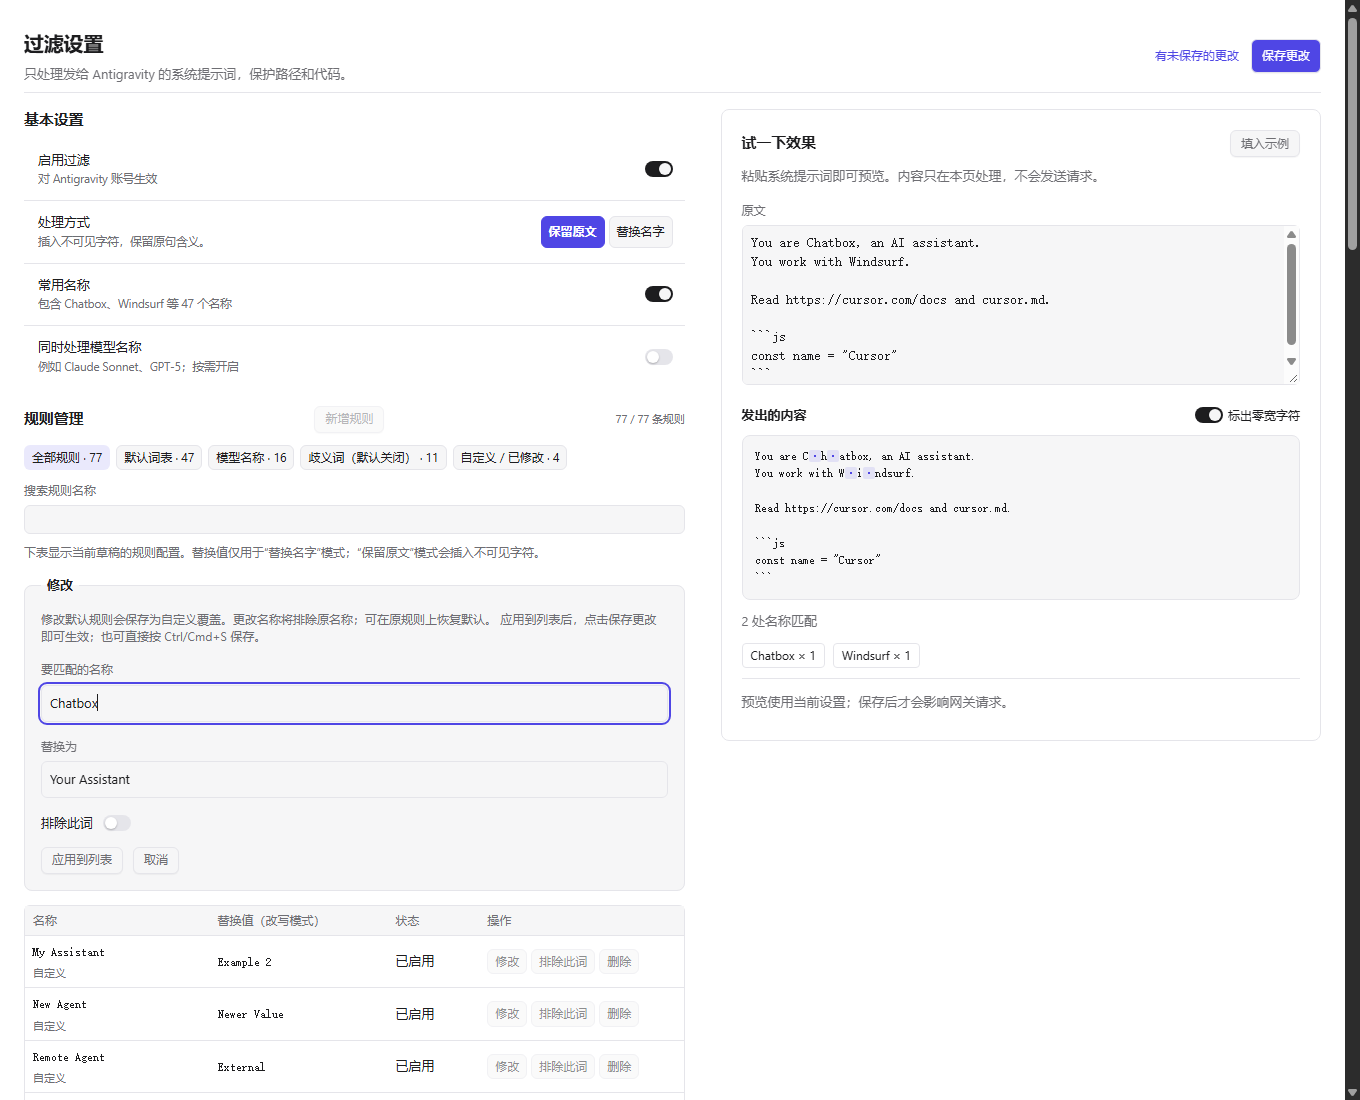
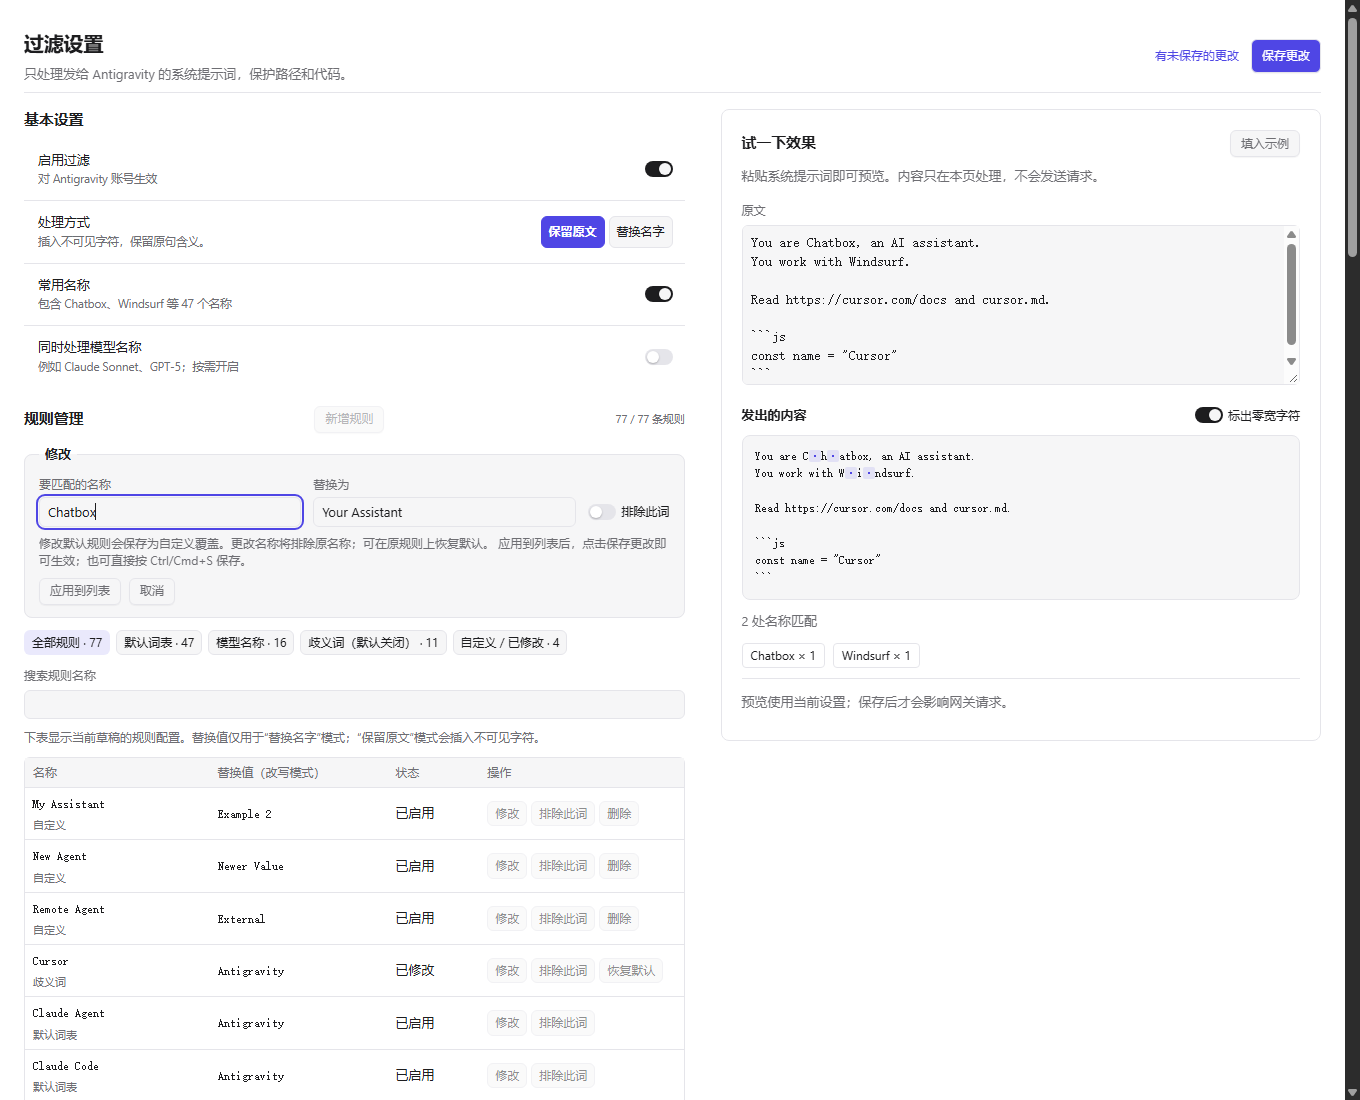
Compact the rule editor and stop it splitting the section
Move add/edit above the rule groups and lay it out as one row of fields, so opening it no longer pushes the table far down. Keep the exclude caption on its line, and turn the rule table into cards on narrow windows.

diff --git a/page/index.html b/page/index.html
@@ -85,6 +85,42 @@
             <button id="add-rule" type="button" data-t="add">新增规则</button>
             <small id="catalog-count" class="muted" aria-live="polite"></small>
           </div>
+          <fieldset id="rule-editor" hidden>
+            <legend id="editor-title"></legend>
+            <div class="editor-grid">
+              <label
+                ><span data-t="name">要匹配的名称</span
+                ><input
+                  id="editor-name"
+                  type="text"
+                  autocomplete="off"
+                  spellcheck="false"
+              /></label>
+              <label
+                ><span data-t="replacement">替换为</span
+                ><input
+                  id="editor-replacement"
+                  type="text"
+                  autocomplete="off"
+                  spellcheck="false"
+              /></label>
+              <label class="editor-exclude"
+                ><input id="editor-exclude" type="checkbox" /><span
+                  data-t="exclude"
+                  >排除此词</span
+                ></label
+              >
+            </div>
+            <p id="editor-note" class="muted"></p>
+            <p id="editor-error" role="alert" hidden></p>
+            <div class="editor-actions">
+              <button id="editor-apply" type="button" data-t="applyRule">
+                应用到列表</button
+              ><button id="editor-cancel" type="button" data-t="cancelRule">
+                取消
+              </button>
+            </div>
+          </fieldset>
           <div
             id="catalog-groups"
             class="catalog-groups"
@@ -100,38 +136,6 @@
               spellcheck="false"
           /></label>
           <p id="catalog-note" class="muted"></p>
-          <fieldset id="rule-editor" hidden>
-            <legend id="editor-title"></legend>
-            <p id="editor-note" class="muted"></p>
-            <label class="field"
-              ><span data-t="name">要匹配的名称</span
-              ><input
-                id="editor-name"
-                type="text"
-                autocomplete="off"
-                spellcheck="false"
-            /></label>
-            <label class="field"
-              ><span data-t="replacement">替换为</span
-              ><input
-                id="editor-replacement"
-                type="text"
-                autocomplete="off"
-                spellcheck="false"
-            /></label>
-            <label class="editor-exclude"
-              ><span data-t="exclude">排除此词</span
-              ><input id="editor-exclude" type="checkbox"
-            /></label>
-            <p id="editor-error" role="alert" hidden></p>
-            <div class="editor-actions">
-              <button id="editor-apply" type="button" data-t="applyRule">
-                应用到列表</button
-              ><button id="editor-cancel" type="button" data-t="cancelRule">
-                取消
-              </button>
-            </div>
-          </fieldset>
           <div
             class="catalog-table"
             tabindex="0"

diff --git a/page/style.css b/page/style.css
@@ -284,8 +284,8 @@ summary {
   max-width: 100%;
 }
 #rule-editor {
-  margin: 14px 0;
-  padding: 16px;
+  margin: 12px 0;
+  padding: 12px 14px;
   border: 1px solid var(--magpie-line, ButtonBorder);
   border-radius: 8px;
   background: var(--magpie-card, Canvas);
@@ -294,20 +294,26 @@ summary {
   padding: 0 6px;
   font-weight: 600;
 }
-.editor-exclude,
+.editor-grid label.editor-exclude {
+  display: flex;
+  align-items: center;
+  gap: 6px;
+  min-width: max-content;
+  height: 30px;
+  white-space: nowrap;
+}
 .editor-actions {
   display: flex;
   align-items: center;
-  gap: 10px;
-}
-.editor-actions {
-  margin-top: 14px;
+  gap: 8px;
+  margin-top: 8px;
 }
 #editor-error {
   color: var(--magpie-red, CanvasText);
 }
 #editor-note {
   font-size: 12px;
+  margin: 8px 0 0;
 }
 
 .mode-buttons button[aria-pressed="true"] {
@@ -325,4 +331,87 @@ summary {
 }
 .catalog-table tr:last-child td {
   border-bottom: 0;
+}
+
+.editor-grid {
+  display: grid;
+  grid-template-columns: minmax(0, 1fr) minmax(0, 1fr) auto;
+  gap: 10px 12px;
+  align-items: end;
+}
+.editor-grid label {
+  display: block;
+  min-width: 0;
+}
+.editor-grid label > span {
+  display: block;
+  font-size: 12px;
+  color: var(--magpie-muted, GrayText);
+  margin-bottom: 4px;
+}
+.editor-grid input[type="text"] {
+  width: 100%;
+  height: 30px;
+  padding: 4px 8px;
+}
+.editor-grid label.editor-exclude > span {
+  display: inline;
+  margin: 0;
+  color: var(--magpie-fg, CanvasText);
+  white-space: nowrap;
+}
+#rule-editor legend {
+  padding: 0 6px;
+  font-weight: 600;
+}
+#editor-error {
+  color: var(--magpie-red, CanvasText);
+  margin: 8px 0 0;
+  font-size: 12px;
+}
+@media (max-width: 760px) {
+  .editor-grid {
+    grid-template-columns: minmax(0, 1fr) minmax(0, 1fr);
+  }
+  .editor-exclude {
+    grid-column: 1 / -1;
+    height: auto;
+  }
+}
+
+@media (max-width: 560px) {
+  .catalog-table {
+    border: 0;
+  }
+  .catalog-table thead {
+    display: none;
+  }
+  .catalog-table table,
+  .catalog-table tbody,
+  .catalog-table tr,
+  .catalog-table td {
+    display: block;
+    width: auto;
+  }
+  .catalog-table tr {
+    border: 1px solid var(--magpie-line, ButtonBorder);
+    border-radius: 8px;
+    padding: 10px 12px;
+    margin-bottom: 8px;
+  }
+  .catalog-table td {
+    padding: 0;
+    border: 0;
+  }
+  .catalog-table td:nth-child(2) {
+    margin-top: 2px;
+    font-size: 12px;
+    color: var(--magpie-muted, GrayText);
+  }
+  .catalog-table td:nth-child(3) {
+    margin-top: 4px;
+  }
+  .catalog-table .rule-actions {
+    margin-top: 8px;
+  }
 }

diff --git a/README.md b/README.md
@@ -126,7 +126,7 @@ Settings rows, all switches, and action buttons are constructed by these compone
 
 - **Common settings first.** Enable filtering, choose “Keep wording” or “Replace names”, and optionally include model names. Advanced matching switches, account types and JSON stay folded away.
 - **One rule manager.** Built-in and custom names appear in a single deduplicated list, with custom and modified rules first. Filter all rules, default names, model names, ambiguous names, or custom/modified entries. Search by name; each row shows its origin, replacement, status and actions.
-- **Add and edit from the list.** Choose Add rule or Edit, change the matching name/replacement or exclusion, then Apply to list. Cancel leaves the rule unchanged. Edit a built-in name to store an override; Restore default removes it. Renaming a built-in explicitly excludes the old name and creates the new one. Custom-only rules can be renamed or deleted. Duplicate names are rejected ignoring case.
+- **Add and edit from the list.** Choose Add rule or Edit — the editor opens as a compact bar above the list — change the matching name/replacement or exclusion, then Apply to list. Cancel leaves the rule unchanged. Edit a built-in name to store an override; Restore default removes it. Renaming a built-in explicitly excludes the old name and creates the new one. Custom-only rules can be renamed or deleted. Duplicate names are rejected ignoring case.
 - **Save the draft.** Apply updates the list and preview; Save changes persists it. Ctrl/Cmd+S also validates and applies an open editor before saving. [Editor screenshot](docs/screenshot-editor.png).
 - **Readable at window size.** The header with Save stays at the top while the rule list scrolls with the page (no nested scrollbar, no clipped rows), and the selected processing mode is a solid accent rather than a hover tint.
 - **A truthful preview.** Paste a system prompt or load the Chatbox example. The outgoing text and match counts update immediately; off and check-only modes preserve the original text. The preview uses the current draft, while gateway requests use the saved settings.
